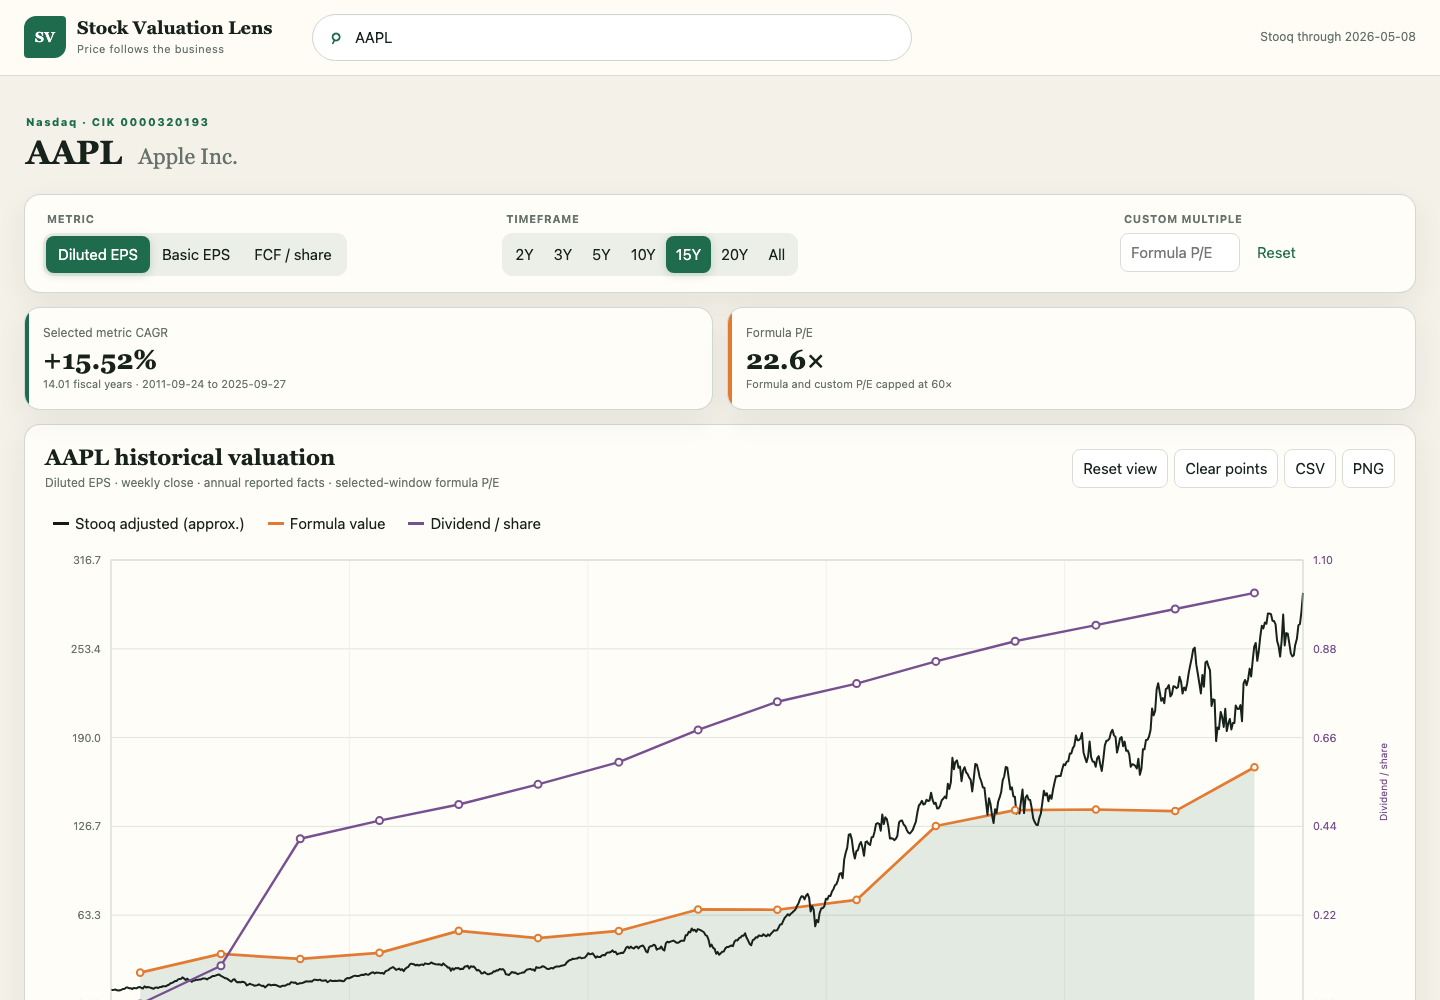
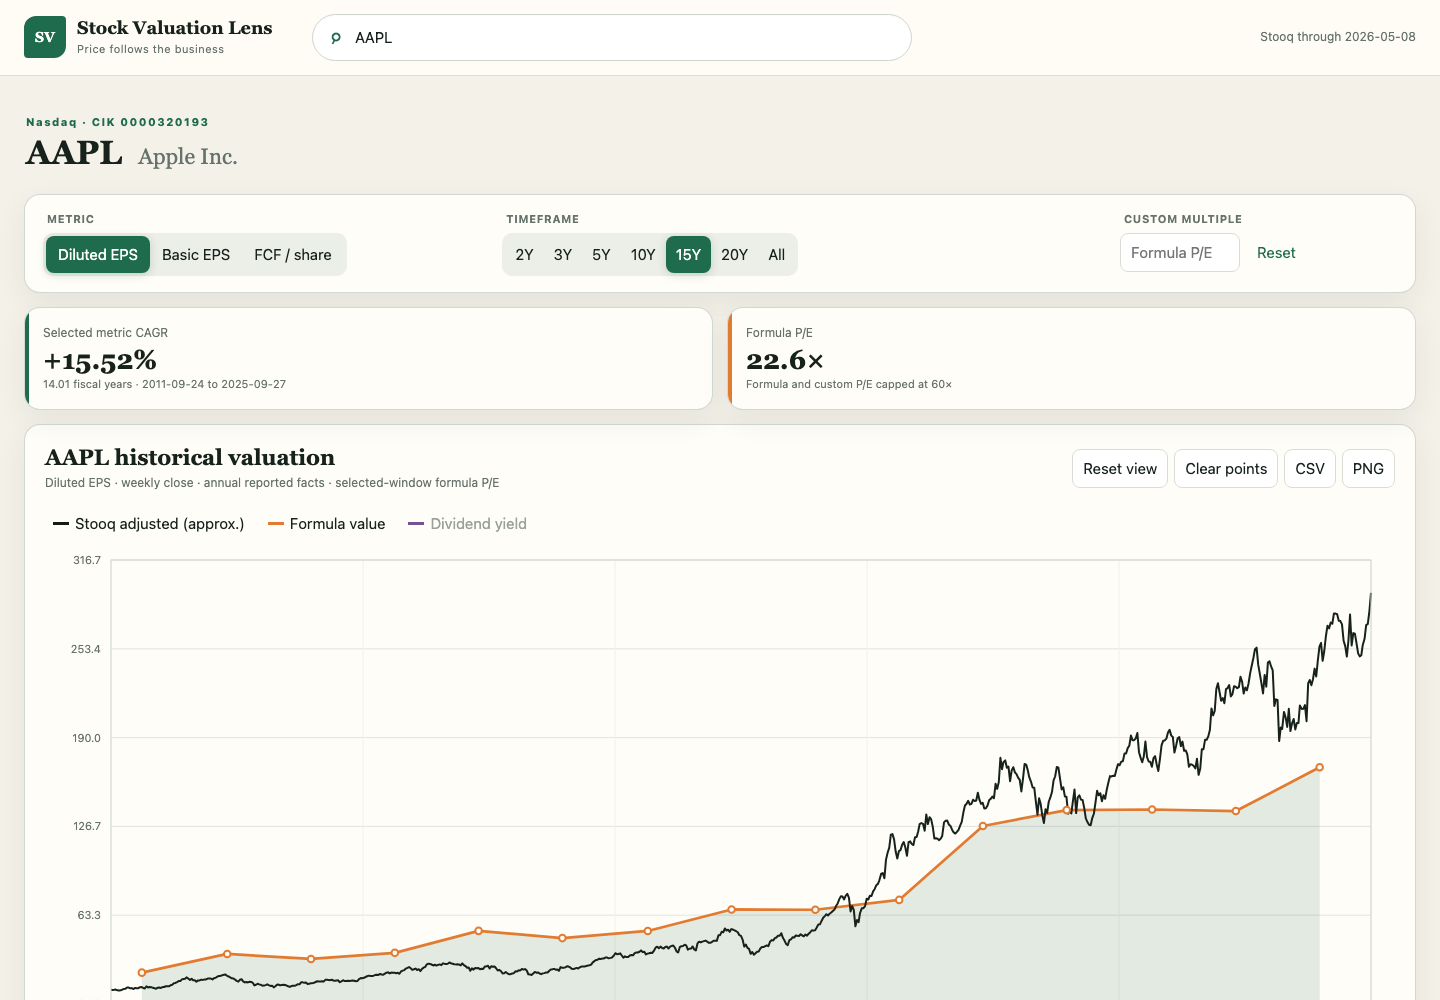
Show dividend yield as an optional percentage curve

diff --git a/fastfunds/static/app.js b/fastfunds/static/app.js
@@ -14,7 +14,7 @@ const state = {
   data: null,
   range: null,
   selection: [],
-  visibility: { price: true, adjusted: true, fair: true, dividend: true },
+  visibility: { price: true, adjusted: true, fair: true, dividend: false },
   chartLayout: null,
   brushLayout: null,
   chartDrag: null,
@@ -113,7 +113,7 @@ function updateCompanyHeader() {
   dividendLegend.disabled = !company.availability.dividend_per_share;
   dividendLegend.classList.toggle("on", company.availability.dividend_per_share && state.visibility.dividend);
   dividendLegend.title = company.availability.dividend_per_share
-    ? "Show or hide reported annual dividends per share."
+    ? "Show or hide the trailing reported dividend-yield curve."
     : "No reported annual dividend per share is available for this company.";
 }
 
@@ -344,7 +344,7 @@ function renderChart() {
   target.setAttribute("viewBox", `0 0 ${width} ${height}`);
   const prices = state.data.priceSeries;
   const valuations = state.data.valuation.valuationPoints;
-  const dividends = state.data.dividendSeries || [];
+  const dividends = state.data.dividendYieldSeries || [];
   const hasCurrentFormula = formulaServiceCurrent();
   const hasSplit = prices.some((row) => row.splitClose !== null);
   const showDividends = state.visibility.dividend && dividends.length > 0;
@@ -385,13 +385,13 @@ function renderChart() {
   if (showDividends) {
     for (let index = 0; index <= 5; index += 1) {
       const value = (dividendMax * index) / 5;
-      addText(target, plot.right + 10, dividendY(value) + 4, compact(value), {
+      addText(target, plot.right + 10, dividendY(value) + 4, fmt(value, 2) + "%", {
         fill: "#76508f",
         "text-anchor": "start",
       });
     }
     const dividendAxisMiddle = (plot.top + plot.bottom) / 2;
-    addText(target, width - 8, dividendAxisMiddle, "Dividend / share", {
+    addText(target, width - 8, dividendAxisMiddle, "Dividend yield (%)", {
       fill: "#76508f",
       "font-size": 10,
       "text-anchor": "middle",
@@ -434,18 +434,6 @@ function renderChart() {
       "stroke-width": 2.4,
       "stroke-linejoin": "round",
     }));
-    dividends.forEach((point) => {
-      const marker = svg("circle", {
-        cx: x(point.date),
-        cy: dividendY(point.value),
-        r: 3.5,
-        fill: "#fffdf7",
-        stroke: "#76508f",
-        "stroke-width": 2,
-      });
-      marker.appendChild(svg("title", {}, `${point.date}: dividend/share ${fmt(point.value, 3)} · ${sourceLabel(point.source)}`));
-      target.appendChild(marker);
-    });
   }
   valuations.forEach((point) => {
     if (hasCurrentFormula && point.fairValue !== null && state.visibility.fair) {
@@ -498,7 +486,7 @@ function renderTooltip(event) {
     if (!best) return item;
     return Math.abs(time(item.date) - time(point.date)) < Math.abs(time(best.date) - time(point.date)) ? item : best;
   }, null);
-  const dividend = (state.data.dividendSeries || []).reduce((best, item) => {
+  const dividend = (state.data.dividendYieldSeries || []).reduce((best, item) => {
     if (!best) return item;
     return Math.abs(time(item.date) - time(point.date)) < Math.abs(time(best.date) - time(point.date)) ? item : best;
   }, null);
@@ -512,7 +500,7 @@ function renderTooltip(event) {
     [state.company.availability.split_price ? "Split-only close" : "Stooq close (approx.)", point.splitClose ?? point.adjustedClose],
     ["Stooq adjusted", point.adjustedClose],
     [state.data.metric.label, valuation?.metricValue],
-    ["Dividend / share", state.visibility.dividend ? dividend?.value : null],
+    ["Dividend yield", state.visibility.dividend ? dividend?.value : null, dividend ? fmt(dividend.value, 2) + "%" : null],
     [priceMultipleLabel, priceMultiple, priceMultiple === null ? null : `${fmt(priceMultiple, 1)}×`],
     ["Formula value", formulaServiceCurrent() ? valuation?.fairValue : null],
   ];
@@ -787,13 +775,20 @@ function renderTable() {
   const body = $("#fundamentals-body");
   body.textContent = "";
   const rows = [...state.data.fundamentals].reverse();
+  const dividendYieldByPeriod = new Map();
+  (state.data.dividendYieldSeries || []).forEach((point) => {
+    if (!dividendYieldByPeriod.has(point.dividendDate)) {
+      dividendYieldByPeriod.set(point.dividendDate, point.value);
+    }
+  });
   $("#table-count").textContent = `${rows.filter((row) => row.value !== null).length} observations`;
   rows.forEach((row) => {
     const tr = document.createElement("tr");
+    const dividendYield = dividendYieldByPeriod.get(row.period_end);
     const values = [
       row.period_end,
       compact(row.value),
-      compact(row.dividendPerShare),
+      dividendYield === undefined ? "—" : fmt(dividendYield, 2) + "%",
       compact(row.fcf),
       sourceLabel(row.source),
     ];
@@ -837,8 +832,13 @@ function exportCsv() {
     lines.push([state.metric, row.date, row.metricValue ?? "", "reported annual metric"]);
     if (hasCurrentFormula && row.fairValue !== null) lines.push(["formula_value", row.date, row.fairValue, `multiple=${state.data.valuation.appliedMultiple}`]);
   });
-  (state.data.dividendSeries || []).forEach((row) => {
-    lines.push(["dividend_per_share", row.date, row.value, sourceLabel(row.source)]);
+  (state.data.dividendYieldSeries || []).forEach((row) => {
+    const details = "dividend_per_share=" + row.dividendPerShare +
+      ";dividend_period=" + row.dividendDate +
+      ";price=" + row.price +
+      ";price_type=" + row.priceType +
+      ";source=" + sourceLabel(row.source);
+    lines.push(["dividend_yield_percent", row.date, row.value, details]);
   });
   const escaped = lines.map((row) => row.map((cell) => `"${String(cell ?? "").replaceAll('"', '""')}"`).join(",")).join("\n");
   downloadBlob(new Blob([escaped], { type: "text/csv;charset=utf-8" }), `${state.ticker}-${state.metric}-${state.range.start}-${state.range.end}.csv`);

diff --git a/fastfunds/static/index.html b/fastfunds/static/index.html
@@ -89,7 +89,7 @@
           <button type="button" data-series="price" class="on"><i class="legend-price"></i>Split-only price</button>
           <button type="button" data-series="adjusted" class="on"><i class="legend-adjusted"></i>Stooq adjusted</button>
           <button type="button" data-series="fair" class="on"><i class="legend-fair"></i>Formula value</button>
-          <button type="button" data-series="dividend" class="on"><i class="legend-dividend"></i>Dividend / share</button>
+          <button type="button" data-series="dividend"><i class="legend-dividend"></i>Dividend yield</button>
         </div>
         <div id="chart-wrap" class="chart-wrap">
           <svg id="main-chart" role="img" aria-label="Historical valuation chart"></svg>
@@ -125,7 +125,7 @@
           </div>
           <div class="table-scroll">
             <table>
-              <thead><tr><th>Fiscal end</th><th id="metric-column-heading">Value</th><th>Dividend / share</th><th>FCF total</th><th>Source</th></tr></thead>
+              <thead><tr><th>Fiscal end</th><th id="metric-column-heading">Value</th><th>Dividend yield</th><th>FCF total</th><th>Source</th></tr></thead>
               <tbody id="fundamentals-body"></tbody>
             </table>
           </div>

diff --git a/fastfunds/server.py b/fastfunds/server.py
@@ -145,6 +145,37 @@ def _normalize_range(minimum, maximum, start=None, end=None):
     return start_date.isoformat(), end_date.isoformat()
 
 
+def _dividend_yield_series(dividend_history, price_series, use_split_prices):
+    """Calculate weekly trailing reported dividend yield percentages."""
+    result = []
+    dividend_index = 0
+    current = None
+    price_key = "splitClose" if use_split_prices else "adjustedClose"
+    price_type = "split_only_close" if use_split_prices else "stooq_adjusted_close"
+    for price_row in price_series:
+        while (
+            dividend_index < len(dividend_history)
+            and dividend_history[dividend_index]["date"] <= price_row["date"]
+        ):
+            current = dividend_history[dividend_index]
+            dividend_index += 1
+        price = price_row.get(price_key)
+        if current is None or price is None or price <= 0 or current["value"] < 0:
+            continue
+        result.append(
+            {
+                "date": price_row["date"],
+                "value": current["value"] / price * 100.0,
+                "dividendPerShare": current["value"],
+                "dividendDate": current["date"],
+                "price": price,
+                "priceType": price_type,
+                "source": current["source"],
+            }
+        )
+    return result
+
+
 def build_chart_payload(connection, ticker, metric="eps_diluted", start=None, end=None, custom_multiple=None):
     ticker = normalize_ticker(ticker)
     if metric not in METRICS:
@@ -198,6 +229,24 @@ def build_chart_payload(connection, ticker, metric="eps_diluted", start=None, en
         }
         for row in rows if row["dividend_per_share"] is not None
     ]
+    dividend_params = [company["cik"]]
+    dividend_where = "WHERE cik=? AND dividend_per_share IS NOT NULL"
+    if end:
+        dividend_where += " AND period_end<=?"
+        dividend_params.append(end)
+    dividend_rows = connection.execute(
+        "SELECT period_end,dividend_per_share,dividend_source FROM fundamentals "
+        + dividend_where + " ORDER BY period_end",
+        tuple(dividend_params),
+    ).fetchall()
+    dividend_history = [
+        {
+            "date": row["period_end"],
+            "value": row["dividend_per_share"],
+            "source": _json_source(row["dividend_source"]),
+        }
+        for row in dividend_rows
+    ]
 
     date_where = ""
     date_params = [ticker, ticker]
@@ -215,6 +264,11 @@ def build_chart_payload(connection, ticker, metric="eps_diluted", start=None, en
         {"date": row["date"], "splitClose": row["close"], "adjustedClose": row["adjusted_close"]}
         for row in price_rows
     ]
+    dividend_yield_series = _dividend_yield_series(
+        dividend_history,
+        price_series,
+        company["availability"]["split_price"],
+    )
     valuation = valuation_summary(fundamentals, custom_multiple=custom_multiple)
     warnings = list(company["availabilityNotes"])
     if not fundamentals:
@@ -227,6 +281,7 @@ def build_chart_payload(connection, ticker, metric="eps_diluted", start=None, en
         "bounds": {"minimum": minimum, "maximum": maximum, "start": start, "end": end},
         "fundamentals": fundamentals,
         "dividendSeries": dividend_series,
+        "dividendYieldSeries": dividend_yield_series,
         "priceSeries": price_series,
         "valuation": valuation,
         "warnings": list(dict.fromkeys(warnings)),

diff --git a/tests/test_importer.py b/tests/test_importer.py
@@ -205,6 +205,18 @@ class ImporterIntegrationTests(unittest.TestCase):
             self.assertEqual(payload["company"]["ticker"], "TEST")
             self.assertEqual(len(payload["fundamentals"]), 3)
             self.assertEqual([row["value"] for row in payload["dividendSeries"]], [0.2, 0.24, 0.3])
+            yields = payload["dividendYieldSeries"]
+            self.assertEqual([row["date"] for row in yields], [
+                "2023-01-06", "2023-12-29", "2024-12-30",
+            ])
+            self.assertAlmostEqual(yields[-1]["value"], 0.96)
+            self.assertEqual(yields[-1]["dividendPerShare"], 0.24)
+            self.assertEqual(yields[-1]["priceType"], "split_only_close")
+            ranged = build_chart_payload(
+                connection, "TEST", "fcf_per_share", start="2024-01-01", end="2024-12-31"
+            )
+            self.assertEqual(len(ranged["dividendYieldSeries"]), 1)
+            self.assertAlmostEqual(ranged["dividendYieldSeries"][0]["value"], 0.96)
             self.assertTrue(payload["company"]["availability"]["dividend_per_share"])
             self.assertIsNotNone(payload["valuation"]["formulaMultiple"])
             results = search_companies(connection, "Test")
@@ -307,6 +319,7 @@ class ImporterIntegrationTests(unittest.TestCase):
             self.assertEqual(len(payload["fundamentals"]), 2)
             self.assertEqual(payload["fundamentals"][-1]["value"], 25.0)
             self.assertEqual(payload["dividendSeries"][-1]["value"], 14.0)
+            self.assertAlmostEqual(payload["dividendYieldSeries"][-1]["value"], 14.0 / 600.0 * 100.0)
             self.assertEqual(payload["priceSeries"][-1]["splitClose"], 600.0)
 
 

diff --git a/README.md b/README.md
@@ -1,12 +1,12 @@
 # Stock Valuation Lens
 
-Stock Valuation Lens is a local, dependency-free web application for comparing weekly stock prices with annual reported basic EPS, diluted EPS, simple free cash flow per share, and dividends per share. It builds a compact SQLite database from SEC Company Facts, Stooq, and any curated supplemental files already in this directory; it never changes or deletes those raw files.
+Stock Valuation Lens is a local, dependency-free web application for comparing weekly stock prices with annual reported basic EPS, diluted EPS, simple free cash flow per share, and dividend yield. It builds a compact SQLite database from SEC Company Facts, Stooq, and any curated supplemental files already in this directory; it never changes or deletes those raw files.
 
 ## Website example
 
 ![Stock Valuation Lens showing the historical valuation chart for Apple](docs/stock-valuation-lens-example.png)
 
-The application runs entirely on your machine and opens Apple as the initial example when AAPL data is available. Search for another company, switch between reported per-share metrics, toggle the independent dividend overlay, change the time window, and export the visible data as CSV or PNG.
+The application runs entirely on your machine and opens Apple as the initial example when AAPL data is available. Search for another company, switch between reported per-share metrics, turn on the independent dividend-yield overlay, which is off by default, change the time window, and export the visible data as CSV or PNG.
 
 ## Repository data policy
 
@@ -16,7 +16,7 @@ Large downloaded and generated data is intentionally excluded from Git. The `.gi
 
 - Annual `10-K`/`10-K/A` fact extraction with duration checks, restatement deduplication, retroactive standard-taxonomy stock-split normalization, and SEC tag/accession provenance.
 - Basic and diluted EPS from reported facts only.
-- Annual common-stock dividends per share from reported facts, with filing provenance, split normalization, an independent chart toggle, and a dedicated right-hand scale.
+- Annual common-stock dividends per share from reported facts, with filing provenance and split normalization. The optional dividend-yield curve is off by default and calculates `latest reported annual dividend/share ÷ weekly price × 100` on a dedicated percentage scale.
 - Simple FCF = operating cash flow − cash capex, plus FCF/share when diluted weighted-average shares are available.
 - Weekly Stooq downsampling, ETF exclusion, ticker/CIK matching, freshness metadata, and a JSON import audit.
 - Curated non-SEC issuer support with local market-price and annual-report provenance. The included `MC.PA` record covers LVMH on Euronext Paris in EUR.
@@ -90,5 +90,6 @@ The tests use temporary fixtures and do not modify the local SEC or Stooq data.
 - SEC Company Facts generally starts around the 2009 XBRL reporting mandate, so many companies have fewer than 20 annual observations.
 - Conventional FCF is often unavailable or not meaningful for banks, REITs, and some foreign filers. Missing metrics are disabled rather than silently synthesized.
 - MC.PA currently supplies basic EPS only. Diluted EPS and FCF/share are intentionally disabled until directly sourced from LVMH's audited statements in the required form.
+- Dividend yield is a trailing reported proxy, not a forward yield. It uses split-only weekly prices when supplied and otherwise uses Stooq adjusted closes as an approximation.
 - The orange line is a transparent valuation reference, not an intrinsic-value claim. The blue line requires validated split-only prices.
 - This is an independent research interface, not investment advice or an exact reproduction of proprietary FAST Graphs calculations.
